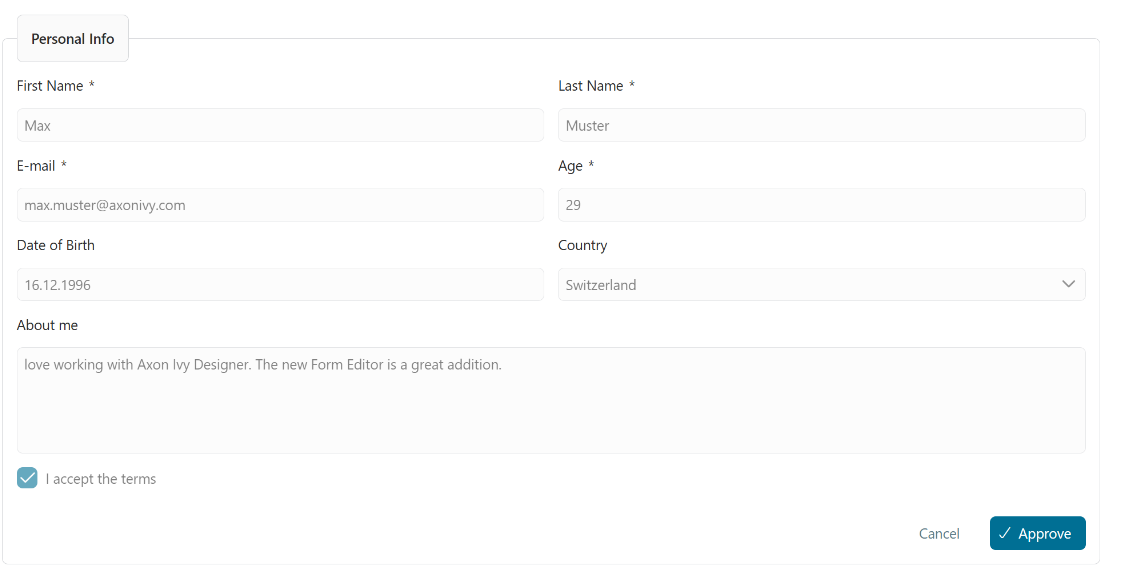
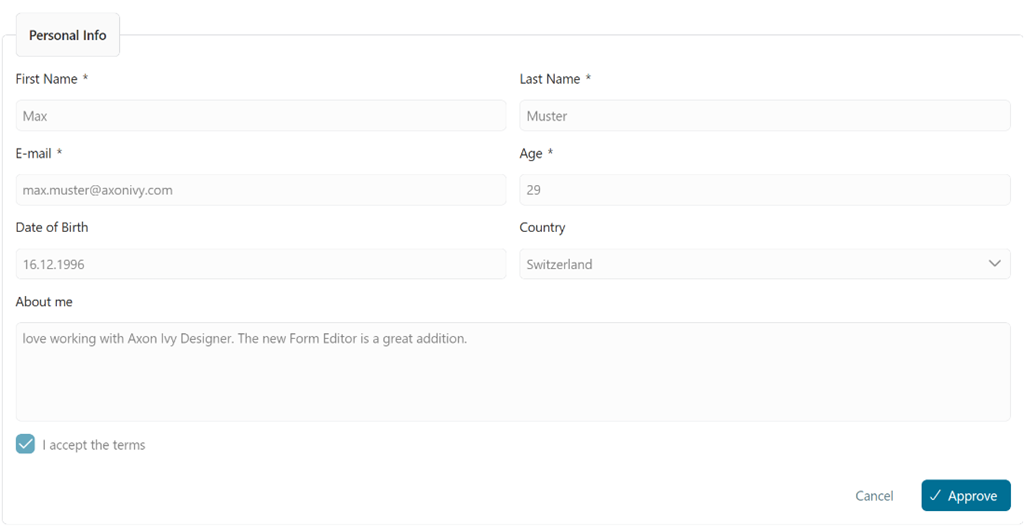
format correct image

diff --git a/formeditor-demos-product/README.md b/formeditor-demos-product/README.md
@@ -40,7 +40,7 @@ This demo is a simple UI with static elements to demonstrate not only the core f
 
 | First UI | Second UI | 
 |----------|----------|
-| <img src="images/first-demo-ui.png" alt="First demo UI" height="300">  | <img src="images/second-demo-ui.png" alt="Second demo UI" height="300"> |
+| ![First demo UI](images/first-demo-ui.png)  | ![Second demo UI](images/second-demo-ui.png) |
 
 The documentation below is not a step-by-step guide. For that, you can check out our  [video tutorial](https://app.supademo.com/demo/cmjcix7zw0016wh0irwpr3p0s)
 
